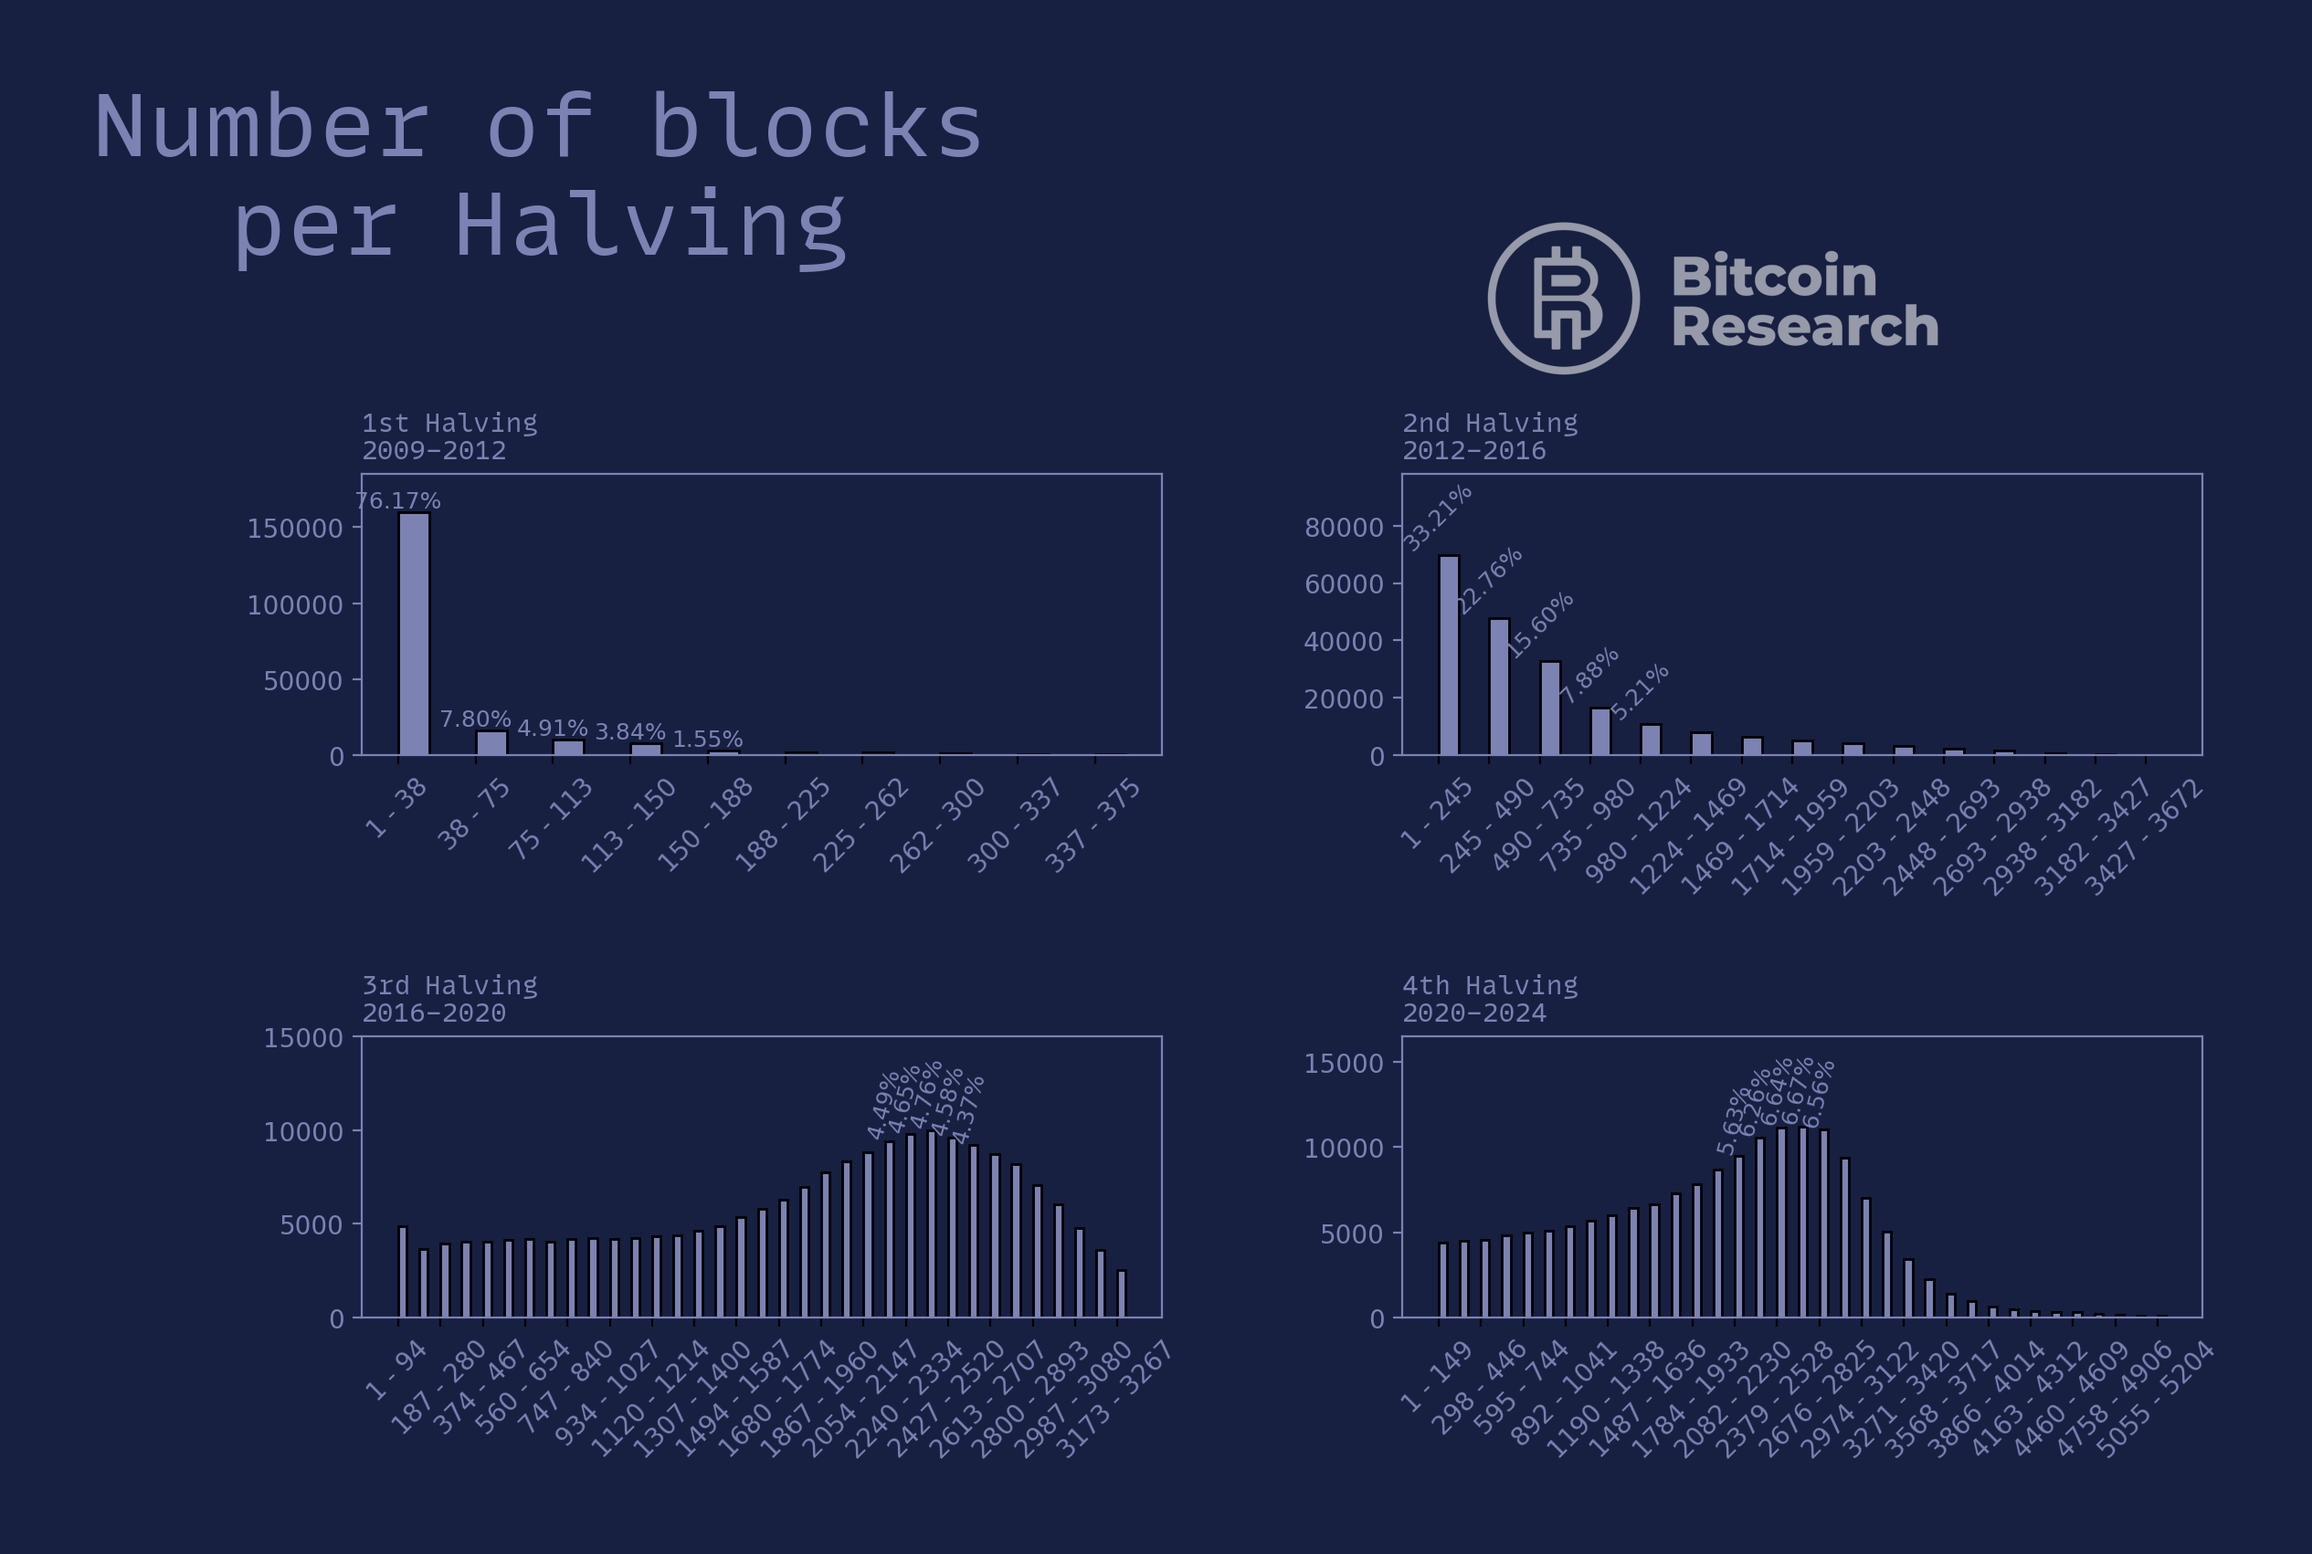
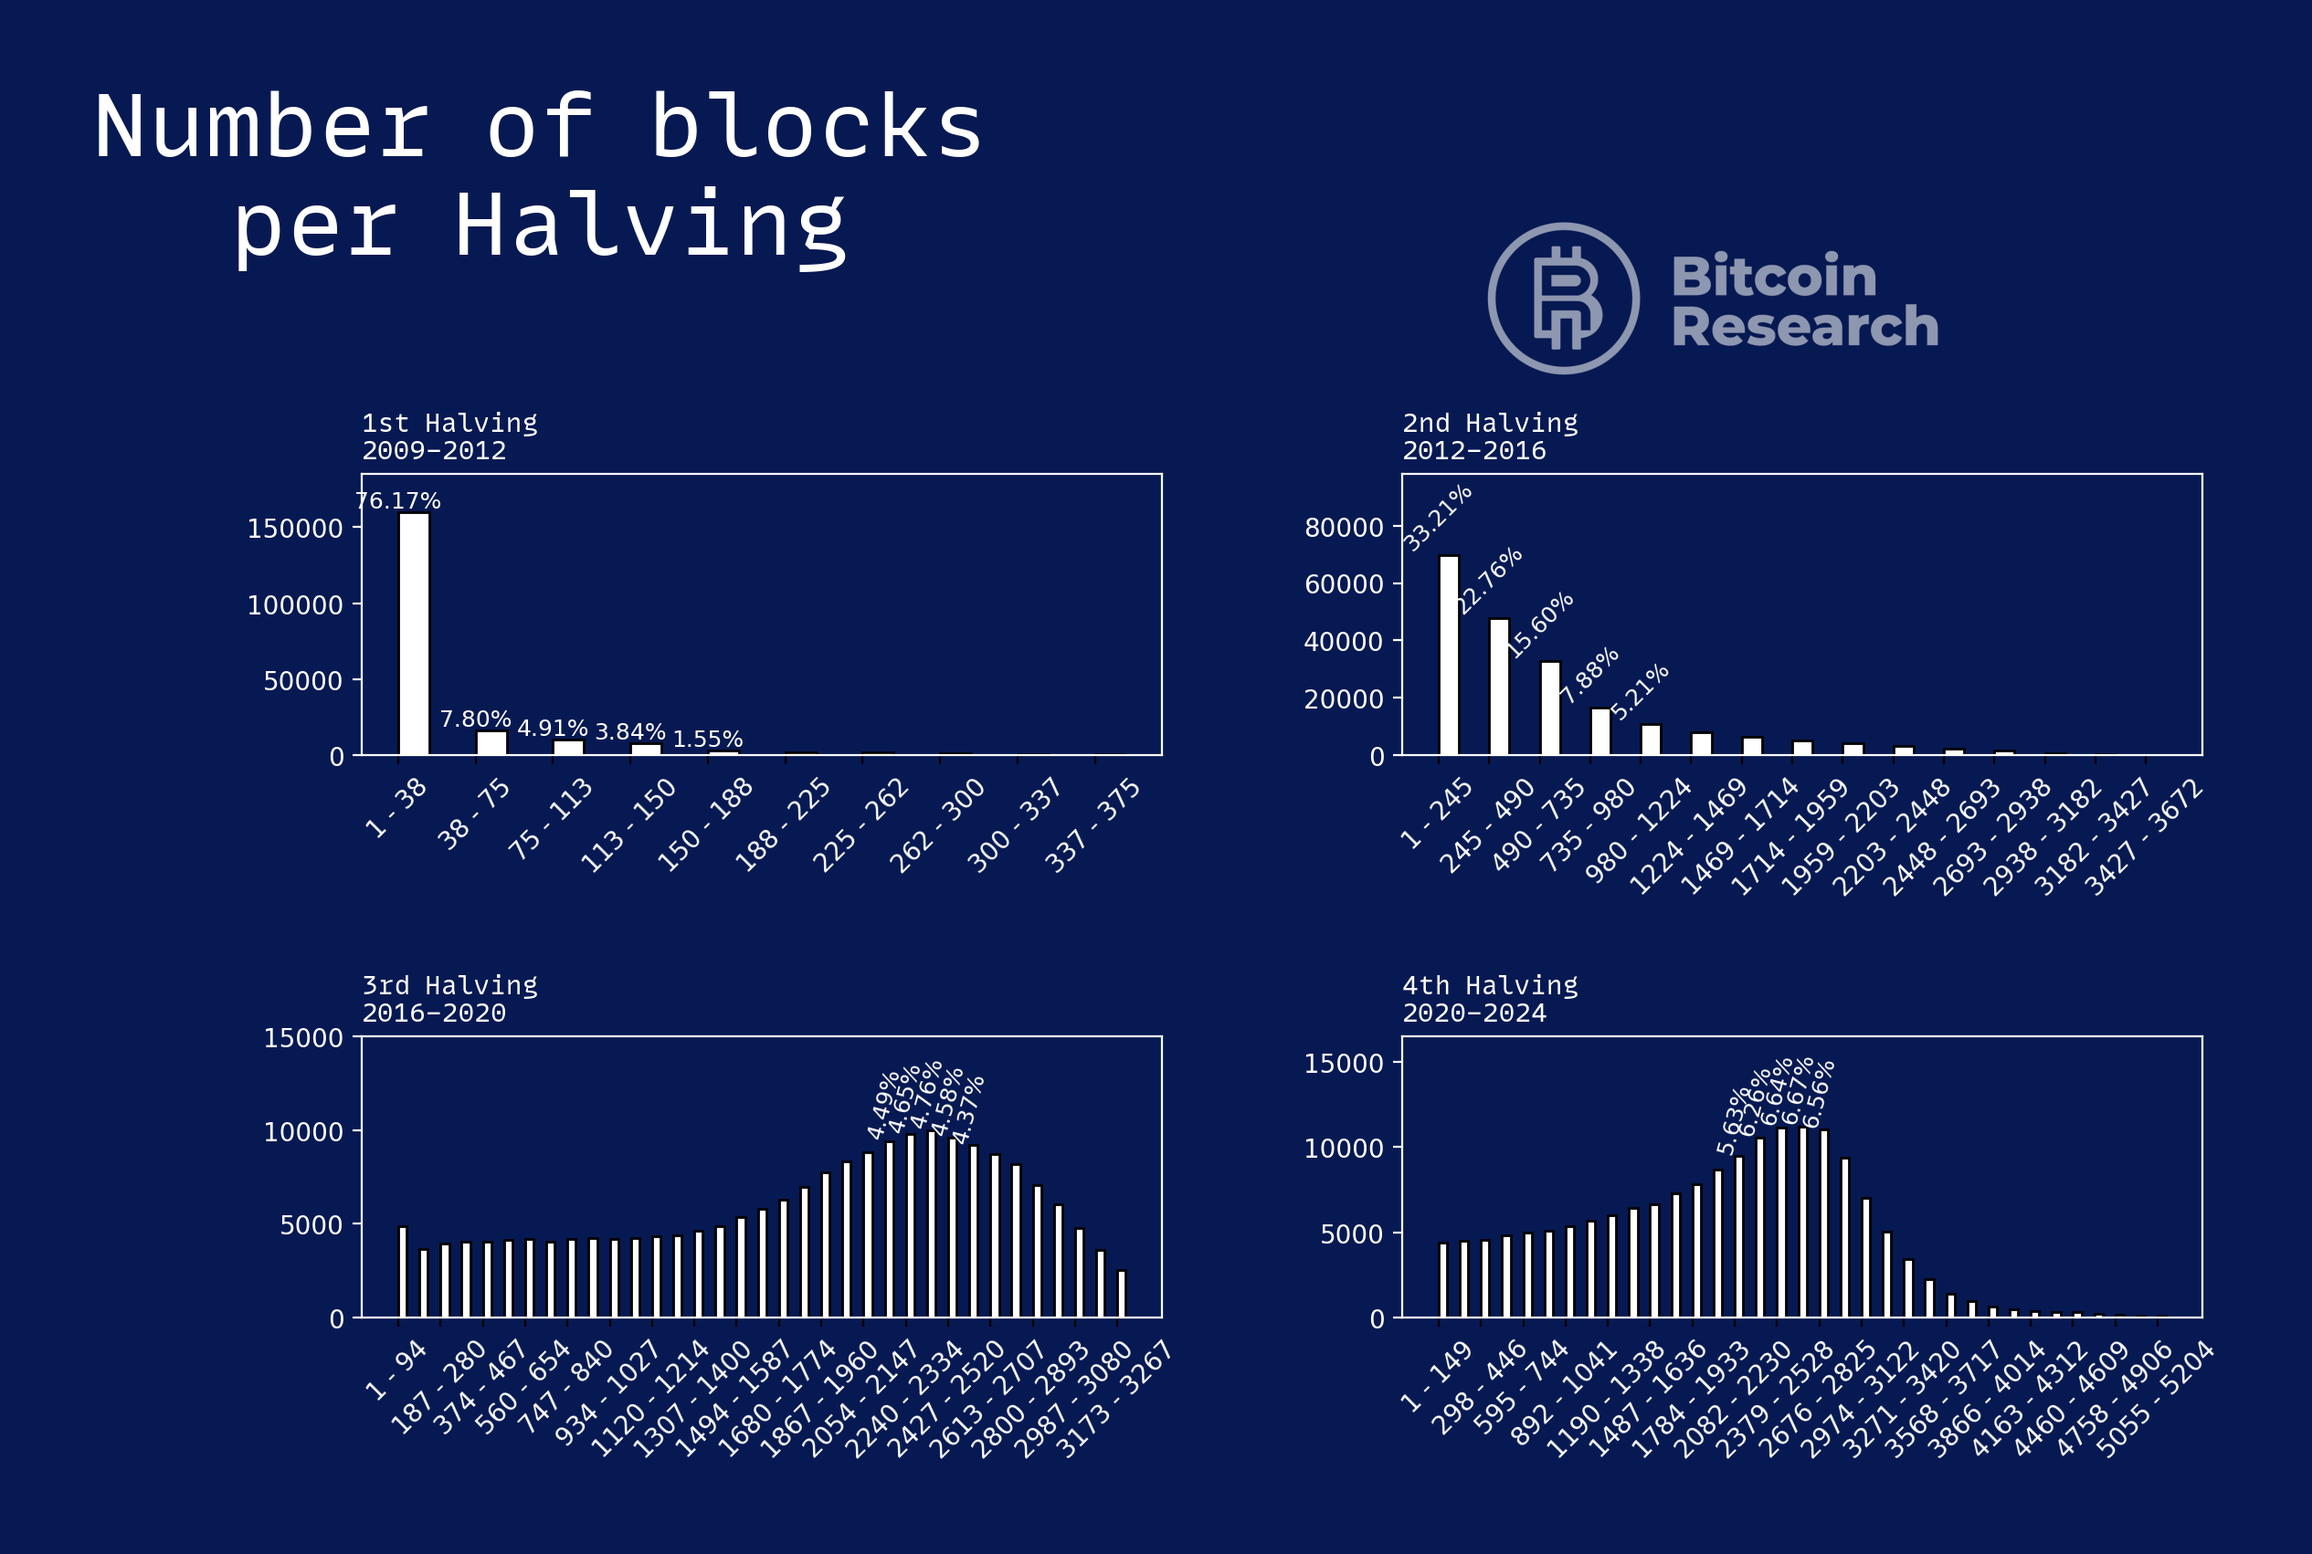
colores

diff --git a/scripts/analisis/ntx.py b/scripts/analisis/ntx.py
@@ -51,7 +51,7 @@ def crear_imagen_total(tipo='estilo_dark'):
     ax[0].annotate(f'Max: {ntx_max}', (n_block[indice], ntx_max), xytext=(20, 20), textcoords='offset points',
                 arrowprops=dict(arrowstyle='->', color='red'), fontsize=12, color='red')
         
-    ax[0].plot(n_block,ntx ,label="number of transactions per block",alpha=0.8)
+    ax[0].plot(n_block,ntx ,label="number of transactions per block",alpha=0.8,color=colores[3])
     ax[0].set_ylabel('Number of transactions\n', fontsize=23,**preferencias)
     ax[0].set_xlabel('Number of Blocks\n', fontsize=23,**preferencias)
     ax[0].axvline(x=210000, color=Estilos[tipo][0], linestyle='--', linewidth=1)
@@ -65,7 +65,7 @@ def crear_imagen_total(tipo='estilo_dark'):
     ax[1].annotate(f'Max: {np.log(ntx_max)}', (n_block[indice], np.log(ntx_max)), xytext=(20, 20), textcoords='offset points',
                 arrowprops=dict(arrowstyle='->', color='red'), fontsize=12, color='red')
 
-    ax[1].plot(n_block,np.log(ntx) ,label="number of transactions per block",alpha=0.8)
+    ax[1].plot(n_block,np.log(ntx) ,label="number of transactions per block",alpha=0.8,color=colores[3])
     ax[1].set_ylabel('Number of transactions \n', fontsize=23,**preferencias)
     ax[1].set_xlabel('Number of Blocks\n', fontsize=23,**preferencias)
     ax[1].scatter(n_block[indice], np.log(ntx_max), color ='red',label='Máximo', s=20)

diff --git a/scripts/analisis/app/styles.py b/scripts/analisis/app/styles.py
@@ -11,7 +11,7 @@ Colores de los datos -> colores
 # estilo[0]= Titulos y letras 
 # estilo[1] = Fondo principal
 # estilo[2] = Fondo imagen
-estilo_dark=[(124/255., 130/255., 178/255.), (23/255., 32/255., 65/255.), (23/255., 32/255., 65/255.)]
+estilo_dark=[(255/255., 255/255., 255/255.), (7/255., 25/255., 82/255.), (7/255., 25/255., 82/255.)]
 estilo_blanco=[(58/255., 53/255., 59/255.), (255/255., 255/255., 255/255.), (255/255., 255/255., 255/255.)]
 
 Estilos = {
@@ -22,11 +22,10 @@ Estilos = {
 # colores: ESTA VARIABLE CONTIENE COLORES
 colores = [(255,255,255),         #Blanco     0
             (0,0,0),                #negro      1        La escala de colores primario, fuerte, debil
-            (21,150,129),(91, 120, 119),(190, 247, 245), # Verde 2 3 4  
+            (21,150,129),(170, 226, 255),(190, 247, 245), # Verde 2 3 4  
             (255, 3, 45),(79, 32, 40),(255, 219, 225),   # Rojo 5 6 7 
-            (7,25,82) #AZUL DE FONDO
-            (170, 226, 255,)#CELESTE DE LINEA
-            
+            (7,25,82), #AZUL DE FONDO
+            (170, 226, 255,)#CELESTE DE LINEA            
             ]
 
 

diff --git a/scripts/analisis/dificultad.py b/scripts/analisis/dificultad.py
@@ -45,8 +45,8 @@ def crear_imagen_total(tipo='estilo_dark'):
     time = time_data(time_s)
     
     ax[0].plot(time,difficulty,color=colores[3],zorder=1,linewidth=7)
-    ax[0].plot(time,difficulty,color=colores[2],zorder=1,linewidth=3)
-    ax[0].plot(time,difficulty,color=colores[1],zorder=1,linewidth=0.5)
+    #ax[0].plot(time,difficulty,color=colores[2],zorder=1,linewidth=3)
+    #ax[0].plot(time,difficulty,color=colores[1],zorder=1,linewidth=0.5)
     
 
 
@@ -63,8 +63,8 @@ def crear_imagen_total(tipo='estilo_dark'):
     ax[1].axhline(difficulty.max(),linestyle='dashed',color='red',linewidth=0.75)
 
     ax[1].plot(time,difficulty,color=colores[3],zorder=1,linewidth=7)
-    ax[1].plot(time,difficulty,color=colores[2],zorder=1,linewidth=3)
-    ax[1].plot(time,difficulty,color=colores[1],zorder=1,linewidth=0.5)
+    #ax[1].plot(time,difficulty,color=colores[2],zorder=1,linewidth=3)
+    #ax[1].plot(time,difficulty,color=colores[1],zorder=1,linewidth=0.5)
     
 
 

diff --git a/scripts/analisis/app/readata.py b/scripts/analisis/app/readata.py
@@ -3,8 +3,8 @@ import numpy as np
 import pandas as pd
 import matplotlib.dates as mdates
 
-os.chdir('D:/proyectos/BitcoinResearch//BitcoinResearch/scripts/')
-
+#os.chdir('D:/proyectos/BitcoinResearch//BitcoinResearch/scripts/')
+os.chdir('/home/richard/TRABAJO/BitcoinResearch/scripts/')
 
 
 def leer_data(*args):
